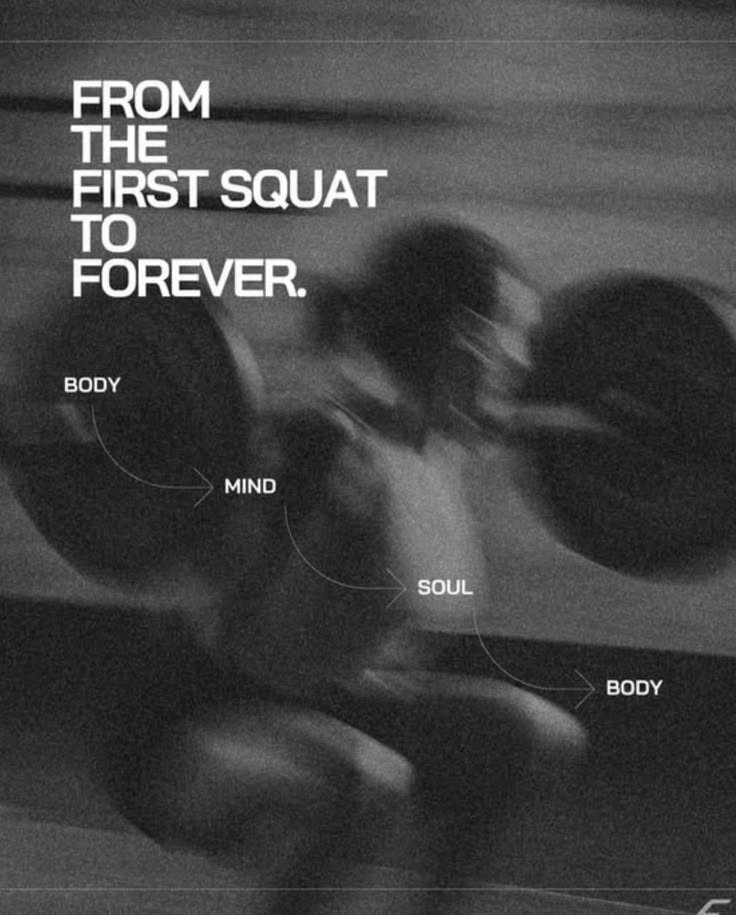
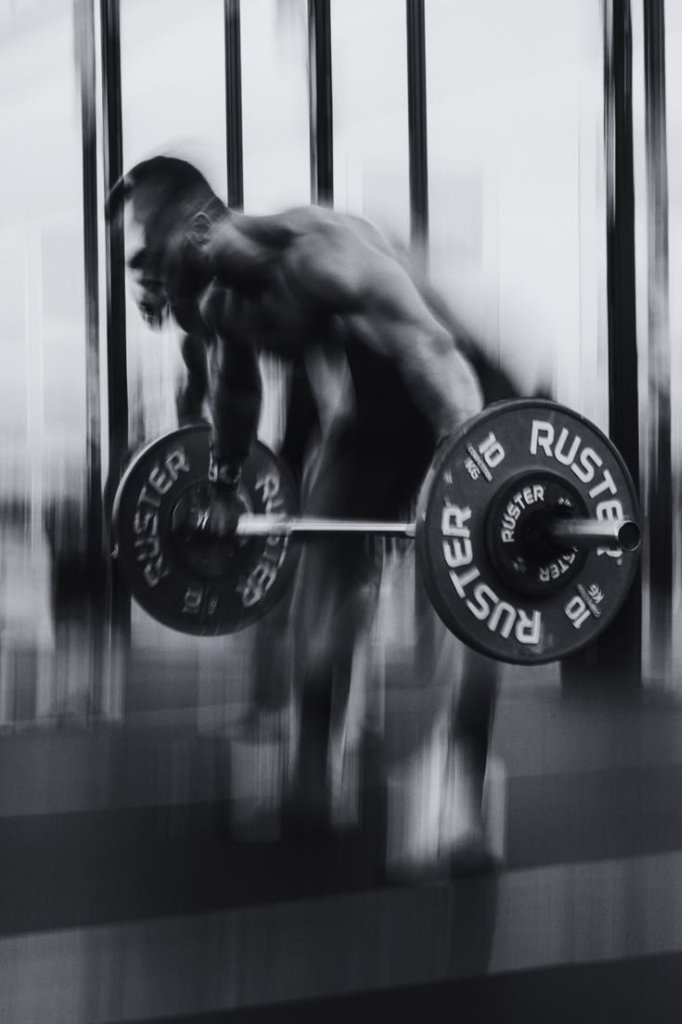
feat: add technique photo and fix image reveal animation

diff --git a/src/components/ImageReveal.jsx b/src/components/ImageReveal.jsx
@@ -2,8 +2,8 @@ import { useRef } from 'react'
 import { motion, useScroll, useTransform } from 'framer-motion'
 import { EASE } from '../lib/motion'
 
-// A photo that wipes open when scrolled into view, settles from a zoom, then drifts slightly as you scroll.
-export default function ImageReveal({ src, alt, className = '', drift = 36, children }) {
+// A photo that fades and slides up when scrolled into view, settles from a zoom, then drifts slightly as you scroll.
+export default function ImageReveal({ src, alt, className = '', drift = 24, children }) {
   const ref = useRef(null)
   const { scrollYProgress } = useScroll({ target: ref, offset: ['start end', 'end start'] })
   const y = useTransform(scrollYProgress, [0, 1], [drift, -drift])
@@ -12,19 +12,19 @@ export default function ImageReveal({ src, alt, className = '', drift = 36, chil
     <motion.figure
       ref={ref}
       className={`img-reveal ${className}`}
-      initial={{ clipPath: 'inset(0 0 100% 0)' }}
-      whileInView={{ clipPath: 'inset(0 0 0% 0)' }}
-      viewport={{ once: true, margin: '-80px' }}
-      transition={{ duration: 1.15, ease: EASE }}
+      initial={{ opacity: 0, y: 30 }}
+      whileInView={{ opacity: 1, y: 0 }}
+      viewport={{ once: true, amount: 0.15 }}
+      transition={{ duration: 0.9, ease: EASE }}
     >
       <motion.div
         className="img-reveal-zoom"
-        initial={{ scale: 1.4 }}
+        initial={{ scale: 1.15 }}
         whileInView={{ scale: 1 }}
-        viewport={{ once: true, margin: '-80px' }}
-        transition={{ duration: 1.6, ease: EASE }}
+        viewport={{ once: true, amount: 0.15 }}
+        transition={{ duration: 1.2, ease: EASE }}
       >
-        <motion.img src={src} alt={alt} loading="lazy" style={{ y, scale: 1.16 }} />
+        <motion.img src={src} alt={alt} loading="lazy" style={{ y, scale: 1.1 }} />
       </motion.div>
       {children}
     </motion.figure>

diff --git a/src/pages/Home.jsx b/src/pages/Home.jsx
@@ -125,8 +125,8 @@ function Technique() {
       <div className="tech-wrap">
         <ImageReveal
           className="tech-photo"
-          src="/images/squat.jpg"
-          alt="Athlete mid-squat, from the first squat to forever"
+          src="/images/technique.jpg"
+          alt="Athlete mastering the bar path"
         >
           <span className="shot-label">{t('tech.photo')}</span>
         </ImageReveal>
